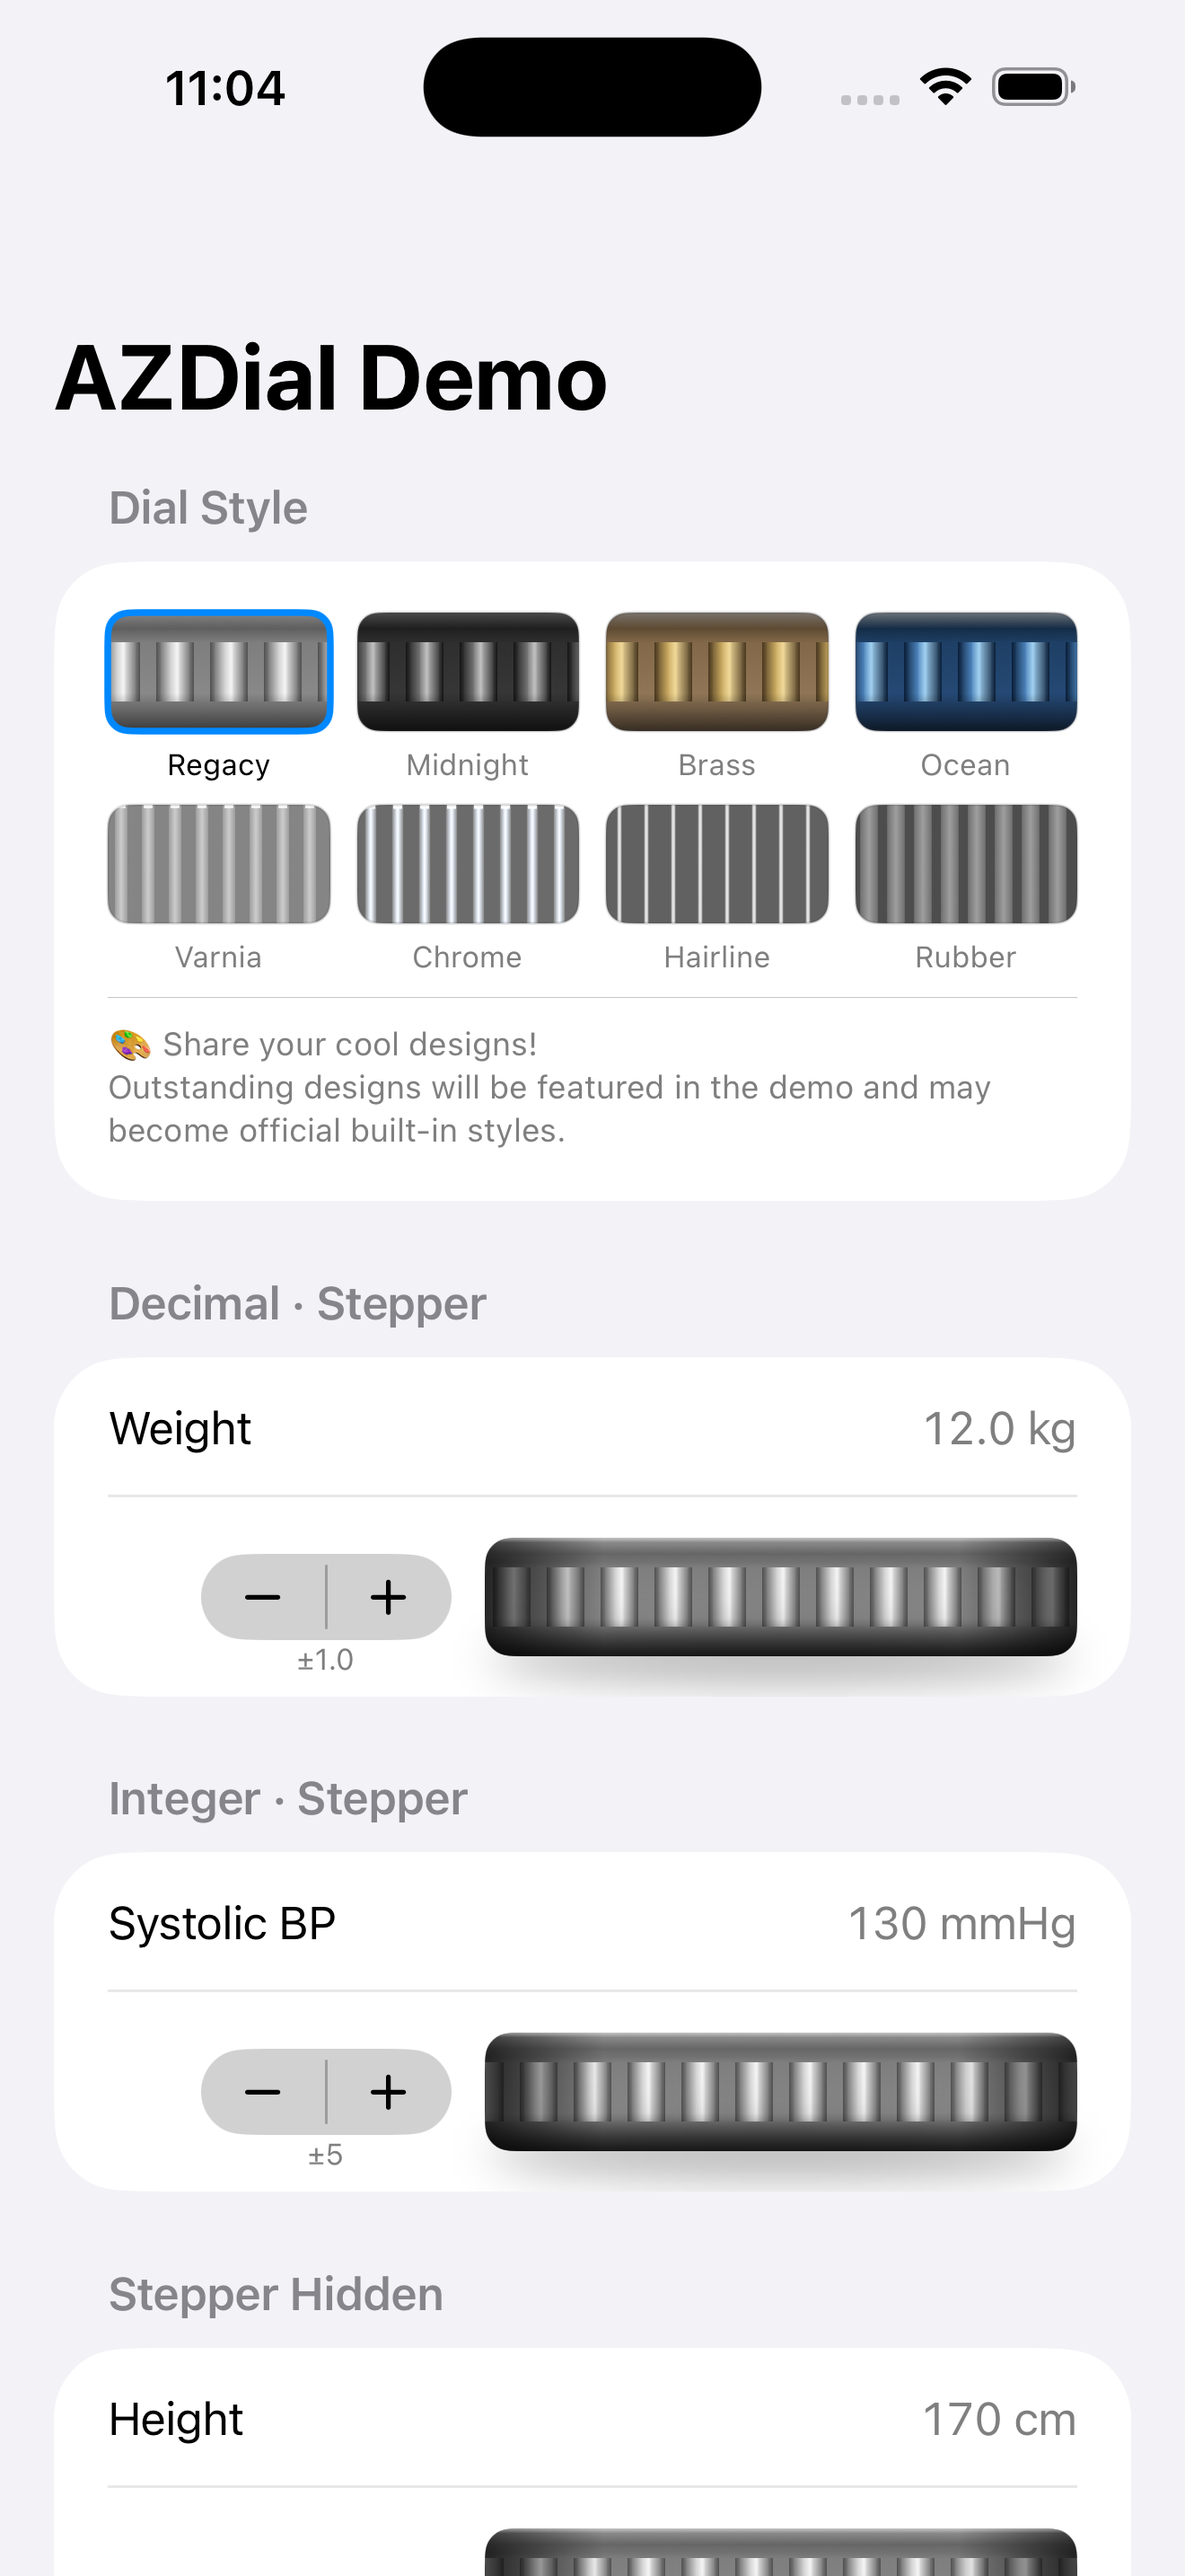
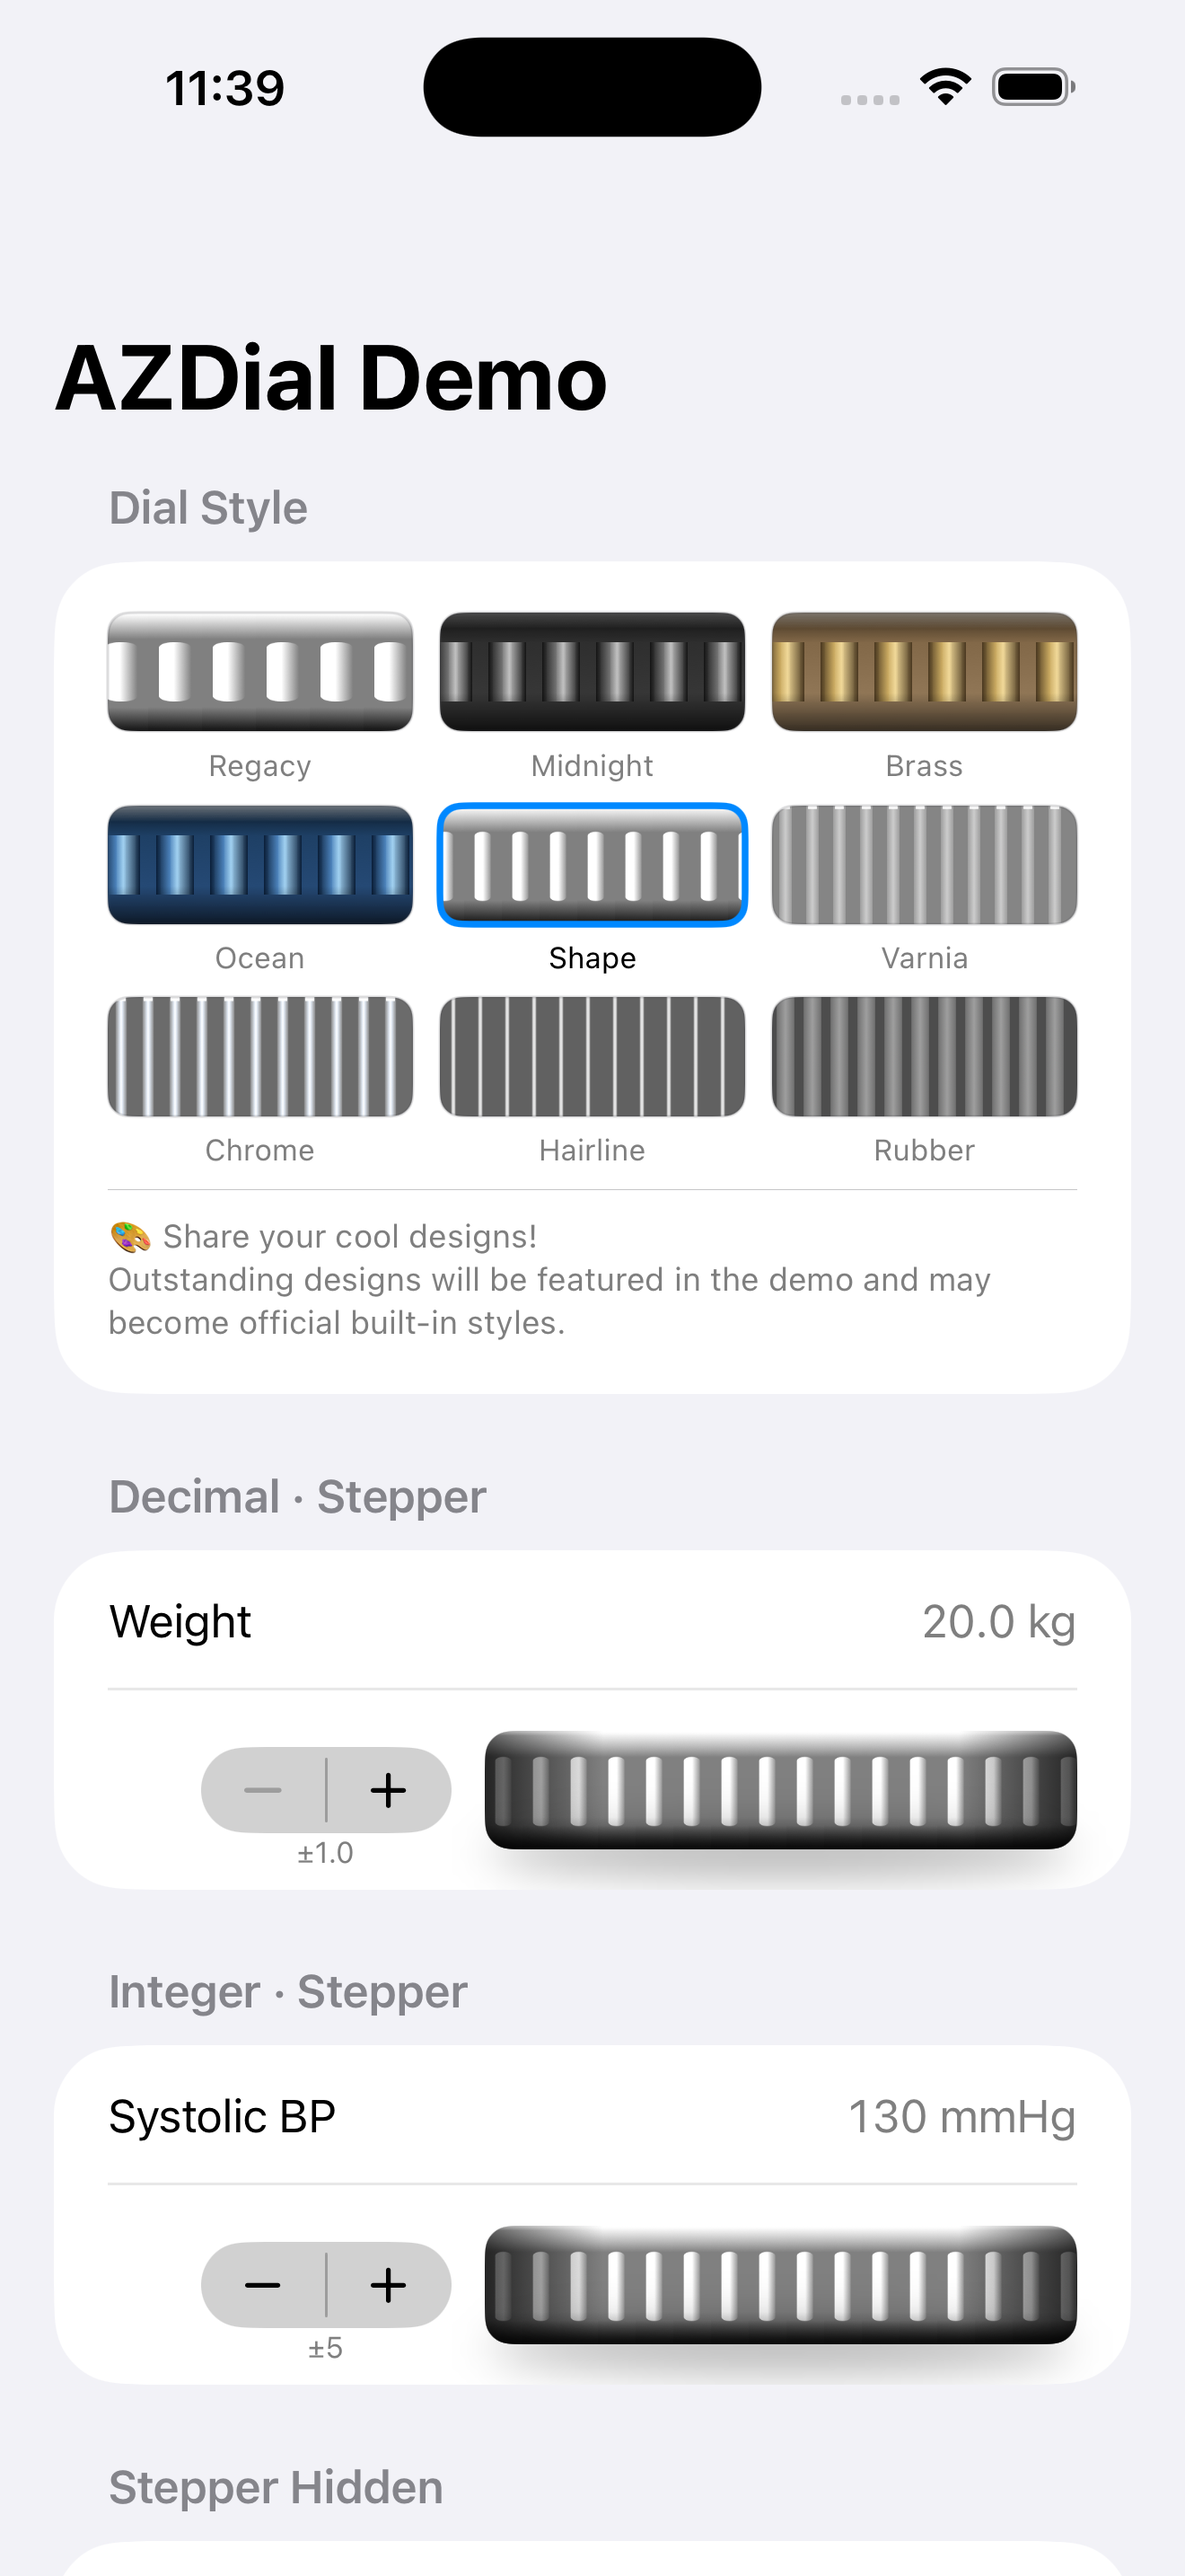
docs更新

diff --git a/README.md b/README.md
@@ -24,7 +24,7 @@ Originally created as an Objective-C component in 2012. Rewritten in SwiftUI in 
 
 ## Features
 
-- 8 built-in visual styles + custom image tile support
+- 9 built-in visual styles + custom image tile support
 - Adjustable dial width (80–220 pt)
 - Optional stepper buttons with decimal label
 - Smooth drag gesture with haptic feedback (iOS)
@@ -72,7 +72,7 @@ struct ContentView: View {
             step: 1,
             stepperStep: 10,
             decimals: 1,
-            style: .regacy,
+            style: .shape,
             dialWidth: 220
         )
     }
@@ -89,7 +89,7 @@ struct ContentView: View {
 | `step` | `Int` | — | Value increment per drag step |
 | `stepperStep` | `Int` | — | Stepper button increment (`0` = hidden) |
 | `decimals` | `Int` | `0` | Decimal places shown on stepper label |
-| `style` | `DialStyle` | `.regacy` | Visual style |
+| `style` | `DialStyle` | `.shape` | Visual style |
 | `dialWidth` | `CGFloat` | `220` | Dial width in points (clamped to 80–220) |
 
 ---
@@ -104,6 +104,7 @@ struct ContentView: View {
 | `.midnight` | Dark gunmetal with high-contrast silver highlights |
 | `.brass` | Warm brass with champagne gold highlights |
 | `.ocean` | Blue anodized aluminum with ice-blue highlights |
+| `.shape` | Shape-based knurling tile **(default)** |
 | `.varnia` | Narrow machined knurling |
 | `.chrome` | Polished chrome with high contrast |
 | `.hairline` | Ultra-fine hairline engraving |
@@ -111,7 +112,7 @@ struct ContentView: View {
 
 ```swift
 AZDialView(value: $value, min: 0, max: 100, step: 1, stepperStep: 10,
-           style: .midnight)
+           style: .shape)
 ```
 
 ### Custom image tile
@@ -147,7 +148,7 @@ UserDefaults.standard.set(style.id, forKey: "dialStyle")
 
 // Restore
 let id = UserDefaults.standard.string(forKey: "dialStyle") ?? ""
-let style = DialStyle.builtin(id: id) ?? .regacy
+let style = DialStyle.builtin(id: id) ?? .shape
 ```
 
 ---
